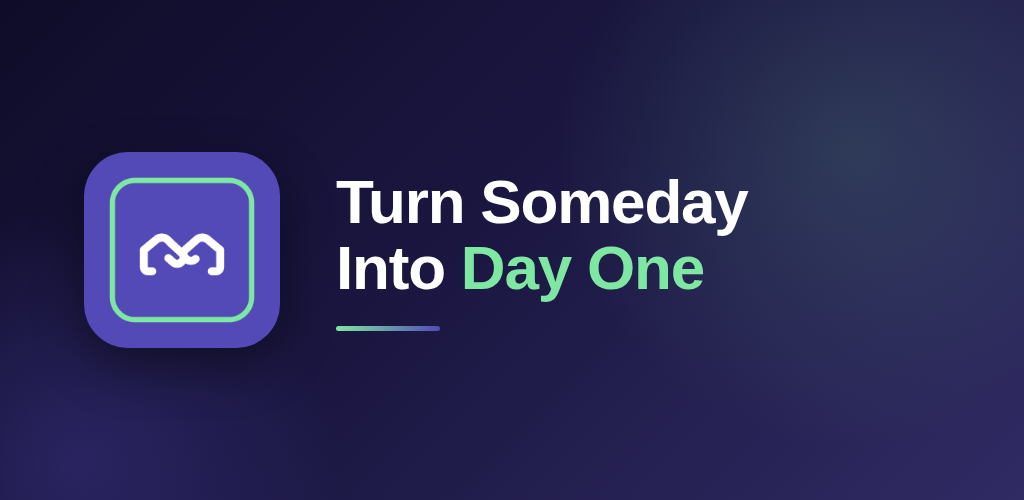
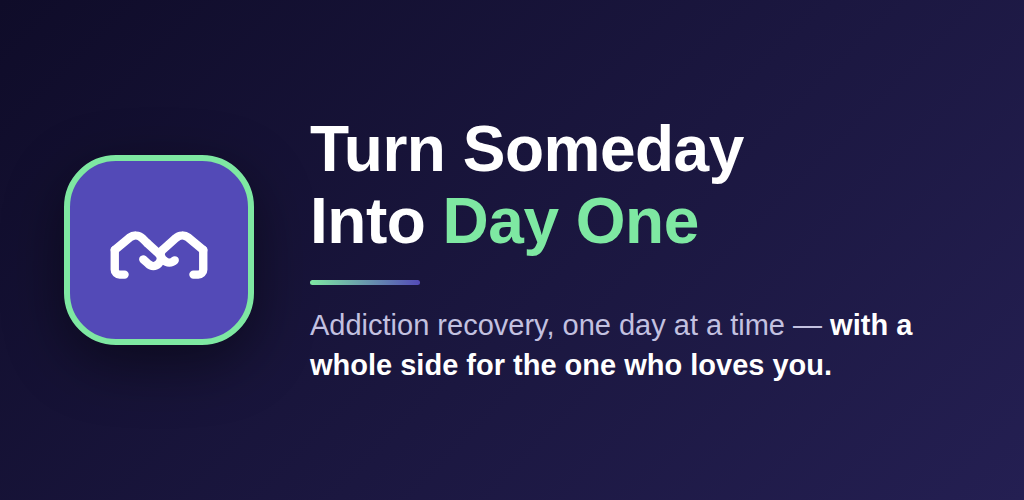
v5.5 - one-time rating ask, feature graphic with a value line
The ASO guide's one implementable engagement lever: ask for a Play rating
after a positive action. Fires once ever, after the day-7+ lesson, never on a
slip day, "not now" is permanent. Feature graphic now says what the app is and
names the family side instead of only the brand.

Changed region(s): [[0.0, 0.12, 0.9375, 1.0]]

diff --git a/TurnSomeDayIntoOneday/index.html b/TurnSomeDayIntoOneday/index.html
@@ -2730,6 +2730,18 @@ function tsidUtm(){try{return JSON.parse(sessionStorage.getItem('tsid_utm')||'nu
   <button class="calm-toggle" onclick="toggleSosMusic()">♪ Calm sound: on</button>
 </div>
 
+<!-- RATING ASK - shown once, ever, after the day-7+ lesson -->
+<div class="sos-modal" id="rating-ask-modal" onclick="if(event.target===this)closeRatingAsk()">
+  <div class="sos-sheet">
+    <div style="font-size:2rem;margin-bottom:8px">⛰</div>
+    <div class="sos-title">Seven days of showing up.</div>
+    <div class="sos-sub" style="margin-bottom:16px">If this app is helping, a rating on Google Play helps the next person find it — the one still searching at 2am.</div>
+    <button class="ob-btn" style="margin-bottom:8px" onclick="goRateApp()">Rate it on Google Play</button>
+    <button class="sos-close" onclick="closeRatingAsk()">Not now</button>
+    <div style="font-size:.6875rem;color:var(--tm);margin-top:10px">We'll never ask again either way.</div>
+  </div>
+</div>
+
 <!-- PARTNER LETTER -->
 <div class="sos-modal" id="partner-letter-modal" onclick="if(event.target===this)closePartnerLetter()">
   <div class="sos-sheet" style="max-height:85vh;display:flex;flex-direction:column">
@@ -3585,6 +3597,10 @@ function completeLessonForToday(){
   // actually mean something get a bigger one. No points, no coins, no fake
   // currency - the number IS the reward, because it is true.
   rewardForLesson(lesson.day,S.lessonsCompletedCount);
+  // The one and only rating ask. The ASO guide's rule is right: ask after a
+  // positive action, never cold. Day 7+ of showing up is the earned moment.
+  // Once, ever - a dismissal is an answer, not an opening bid (house rule 25).
+  if(!justHitFreeCap&&!justFinishedProgram)maybeAskForRating();
   if(justHitLessonConsistency)novaNudge("Seven lessons done — that consistency is exactly what builds lasting change.");
   if(justHitFreeCap){
     setTimeout(()=>{openDay15Overlay();},1200);
@@ -3607,6 +3623,34 @@ function completeLessonForToday(){
 // How big a finished lesson gets to feel. First one, first week, the free-tier
 // line and the end of a 30-day track are the ones worth a real burst.
 const LESSON_MARKS={1:'large',7:'large',15:'large',30:'large',3:'medium',14:'medium',21:'medium',50:'large',100:'large'};
+// ─── The rating ask ──────────────────────────────────────────────────────────
+// A 4.0+ star average decides whether Play ever shows this app to strangers,
+// and the people most likely to rate it well are the ones on a streak. So the
+// ask happens exactly once, after the day-7-or-later lesson is finished - a
+// moment of earned pride - and never on a day with a slip logged. "Not now" is
+// permanent. No nagging: the same quiet register as everything else here.
+function maybeAskForRating(){
+  if(S.ratingAsked)return;
+  if(getDays()<7)return;
+  if((S.lessonsCompletedCount||0)<7)return;
+  const today=new Date().toDateString();
+  if((S.activityLog||[]).some(a=>(a.type==='slip_reported'||a.type==='relapse_reset')&&new Date(a.ts).toDateString()===today))return;
+  S.ratingAsked=true;save();
+  setTimeout(()=>{
+    if(typeof anyBlockingUIOpen==='function'&&anyBlockingUIOpen())return;
+    const m=document.getElementById('rating-ask-modal');
+    if(m)m.classList.add('open');
+  },2600);
+}
+function closeRatingAsk(){
+  const m=document.getElementById('rating-ask-modal');
+  if(m)m.classList.remove('open');
+}
+function goRateApp(){
+  closeRatingAsk();
+  logActivity('rating_ask_accepted',{});
+  window.open('https://play.google.com/store/apps/details?id=com.turnsomedayintodayone.app','_blank','noopener');
+}
 function rewardForLesson(day,total){
   const tier=LESSON_MARKS[total]||(total%25===0?'large':(day%10===0?'medium':'small'));
   try{celebrationBurst(tier);}catch(e){}
@@ -12381,7 +12425,7 @@ function updateProfileEditUI(){
 }
 // Kept in step with the service worker cache version in sw.js - when one moves,
 // the other moves, so "App version" in Profile matches what's actually cached.
-const APP_VERSION='5.4';
+const APP_VERSION='5.5';
 const CATEGORY_EMOJI={
   'Porn & Sex':'🔞',Alcohol:'🍺',Smoking:'🚬',Substances:'💊',Gambling:'🎰',
   'Social media':'📱',Gaming:'🎮','Food / Binging':'🍽','Shopping / Spending':'🛍',

diff --git a/TurnSomeDayIntoOneday/sw.js b/TurnSomeDayIntoOneday/sw.js
@@ -2,7 +2,7 @@
 // slower and softer. The filenames never change, so every audio rebuild needs
 // a new cache name here or existing installs keep the old audio and pair it
 // with the new caption timings, drifting further out with every step.
-const CACHE_NAME = 'tsid-shell-v5.4';
+const CACHE_NAME = 'tsid-shell-v5.5';
 const SHELL_FILES = [
   '/',
   '/app',
